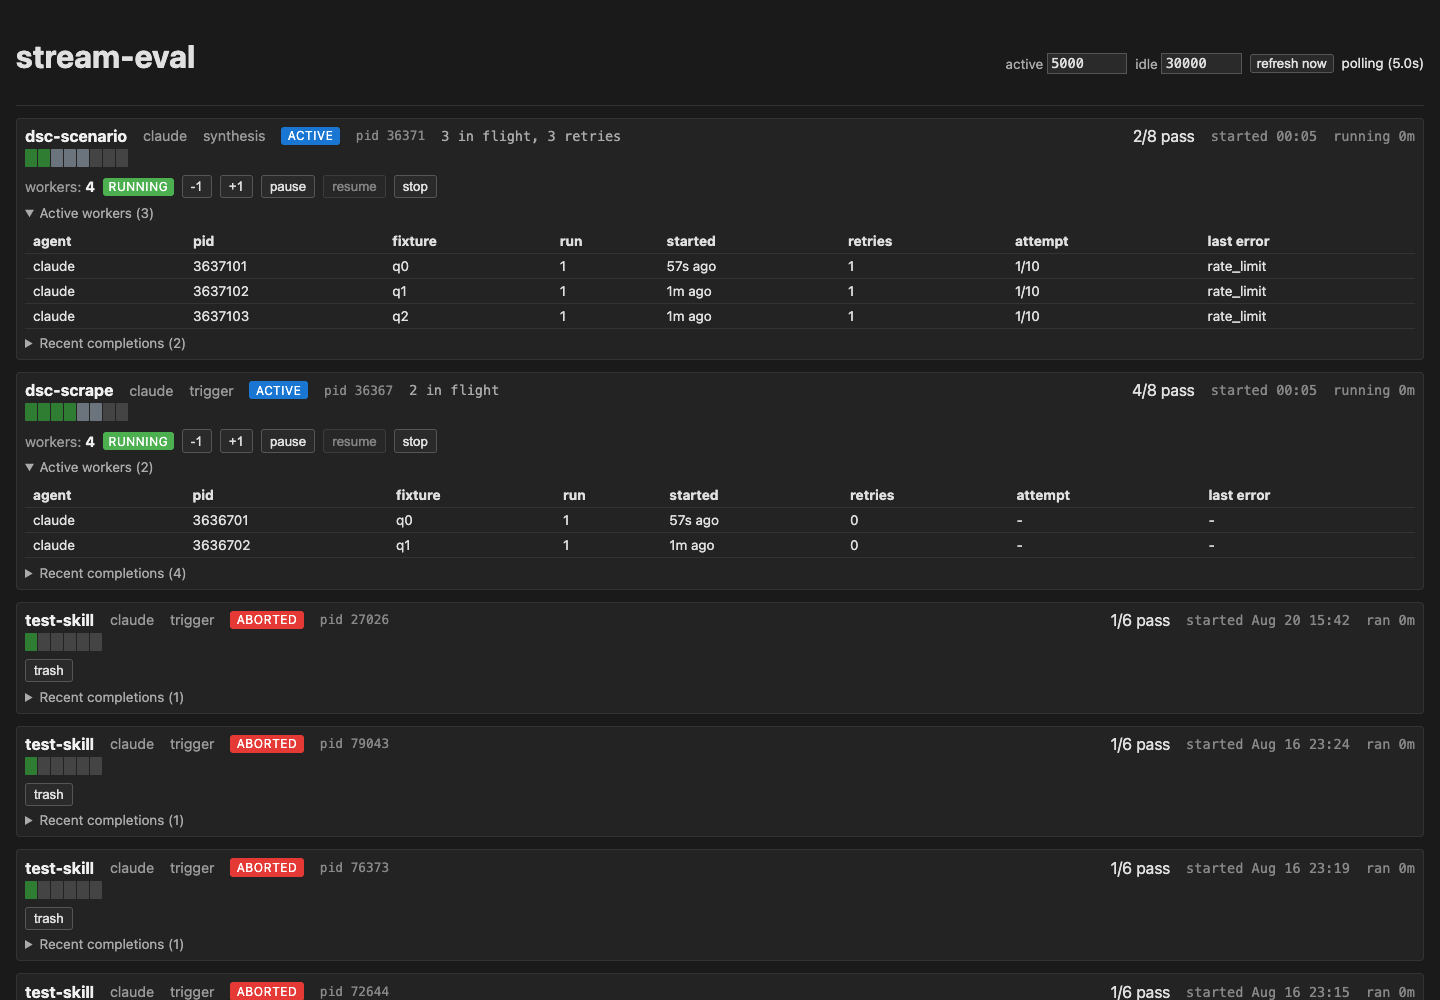
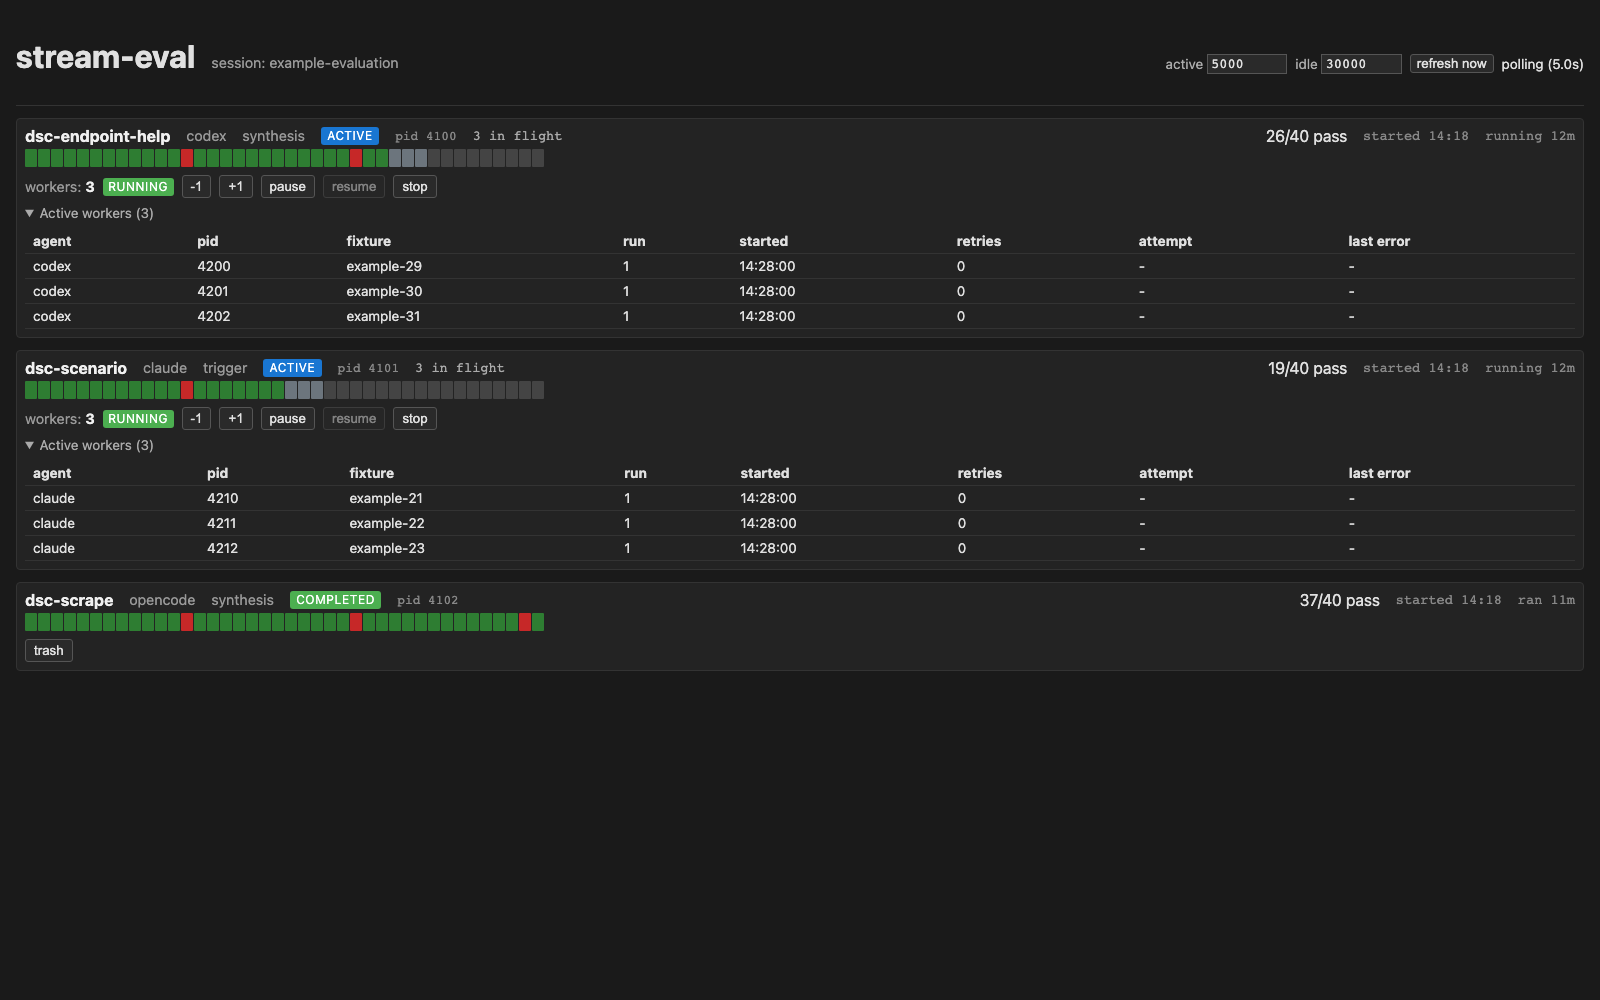
build(cover): regenerate project screenshots during publication

diff --git a/tools/cover/render.py b/tools/cover/render.py
@@ -1,0 +1,38 @@
+"""Render the product dashboard with synthetic state and no process discovery."""
+import sys
+from pathlib import Path
+
+from flask import render_template
+
+from stream_eval.monitor.app import create_app
+from stream_eval.monitor.state import DashboardCell, DashboardRow, DashboardState
+
+NOW = 1768487400
+rows = []
+examples = [
+    ('dsc-endpoint-help', 'codex', 'synthesis', 'active', 28),
+    ('dsc-scenario', 'claude', 'trigger', 'active', 20),
+    ('dsc-scrape', 'opencode', 'synthesis', 'completed', 40),
+]
+for index, (skill, agent, kind, status, done) in enumerate(examples):
+    row = DashboardRow(skill=skill, agent=agent, kind=kind, total_fixtures=20, runs=2,
+        harness_pid=4100 + index, status=status, started_at=NOW - 720,
+        finished_at=NOW - 60 if status == 'completed' else None,
+        cells=[DashboardCell(fixture_id=f'example-{number + 1}', run=number % 2, pass_=number % 13 != 12) for number in range(done)])
+    row.target_workers = 3
+    row.dispatcher_state = 'running'
+    row.in_flight_count = 0 if status == 'completed' else 3
+    row.in_flight_retries = 0
+    row.total_retries = 0
+    row.recent = []
+    row.workers_for_row = [] if status == 'completed' else [dict(
+        agent=agent, pid=4200 + index * 10 + worker, fixture_id=f'example-{done + worker + 1}',
+        run=1, started_at_human='14:28:00', retries=0, latest_attempt=None,
+        max_retries_field=None, last_error=None) for worker in range(3)]
+    rows.append(row)
+
+app = create_app(session='example-evaluation')
+with app.test_request_context('/'):
+    html = render_template('dashboard.html', state=DashboardState(rows), session='example-evaluation',
+        poll_active_ms=5000, poll_idle_ms=30000, now=NOW)
+Path(sys.argv[1]).write_text(html)

diff --git a/docs/screenshots/README.md b/docs/screenshots/README.md
@@ -1,0 +1,21 @@
+# Project cover
+
+The capture renders the real dashboard template and stylesheet with a fixed in-memory evaluation state. It does not scan running agents, evaluation history, sockets, or the local state directory.
+
+Install Node.js and the project development dependencies first. Stream evaluation development dependencies require Python 3.11 or newer; `COVER_PYTHON` can select its interpreter. Browser capture dependencies are isolated under `tools/cover`; the preparation command installs their lockfile and pinned Chromium automatically.
+
+After committing source changes, prepare the canonical image and its source record:
+
+```bash
+scripts/prepare-cover
+```
+
+Commit `docs/screenshots/cover.png` and `docs/screenshots/cover-source.json` together. The source record hashes the committed tree except those generated files, then hashes the PNG separately, so changing the record does not invalidate itself. Publication preparation performs this capture and commit before generating distribution tips. The freshness check refuses publication when committed inputs or image bytes no longer match the record.
+
+```bash
+scripts/prepare-cover --check
+scripts/prepare-cover --output /tmp/project-cover.png
+scripts/release-check
+```
+
+`--output` creates a review artifact without changing the canonical image or its record. The release check validates the committed record and captures a fresh review artifact; `COVER_OUTPUT` chooses where that artifact is retained. Source validation runs the same check and retains the rendered PNG. A generated distribution tip changes repository references, so run freshness checks against neutral source history.

diff --git a/README.md b/README.md
@@ -321,6 +321,10 @@ The harness loads `.env` from the working repository without replacing existing 
 - Skill activation is explicit in Claude and OpenCode transcripts and inferred from the target `SKILL.md` read in Codex transcripts
 - Model identifiers and effort values are adapter-specific even though the environment variable names are shared
 
+## Project cover
+
+The [cover workflow](docs/screenshots/README.md) renders the actual project with synthetic fixtures. Release checks and source validation regenerate a review artifact, and publication preparation records the canonical cover alongside its source inputs.
+
 ## License
 
 MIT. See [LICENSE](LICENSE).
